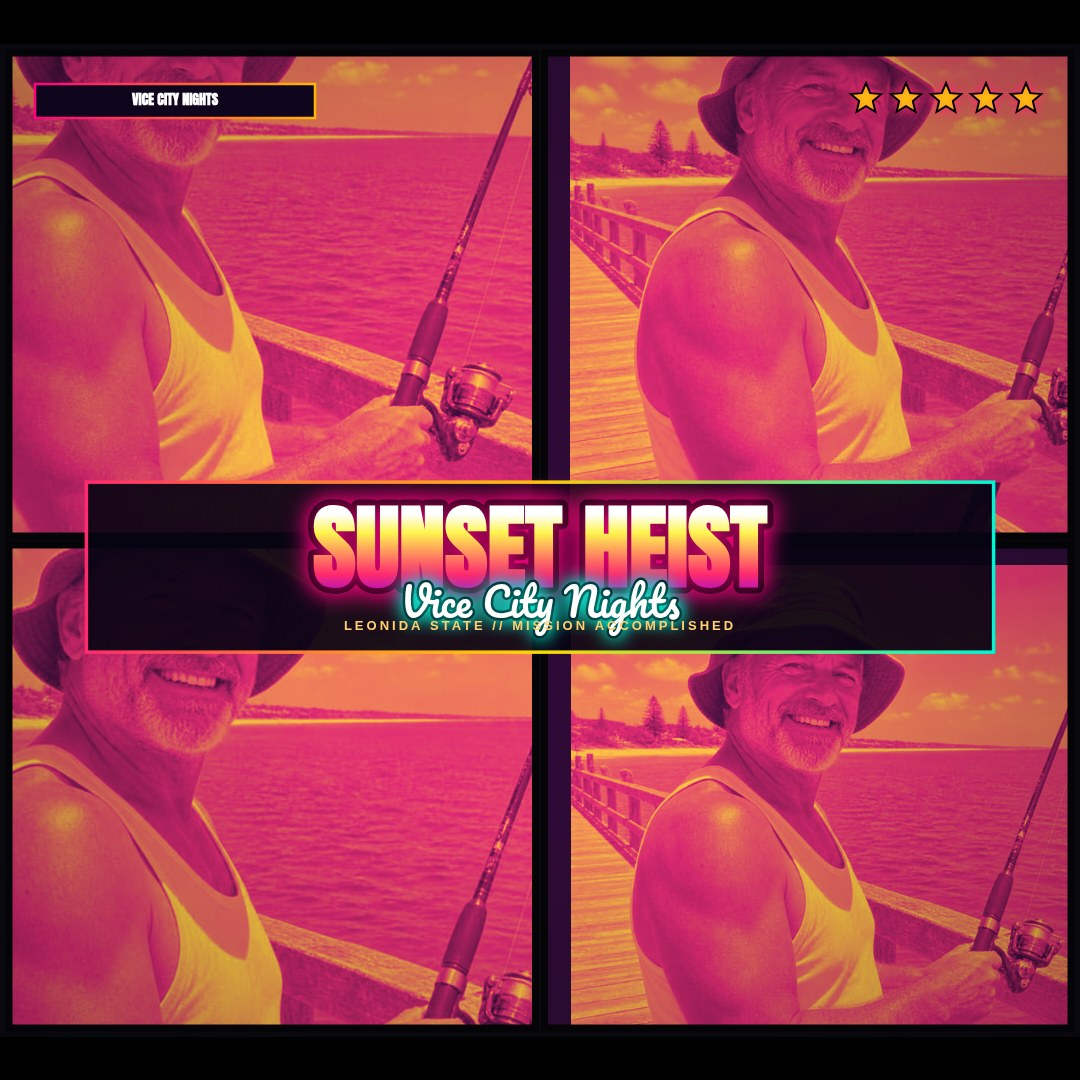
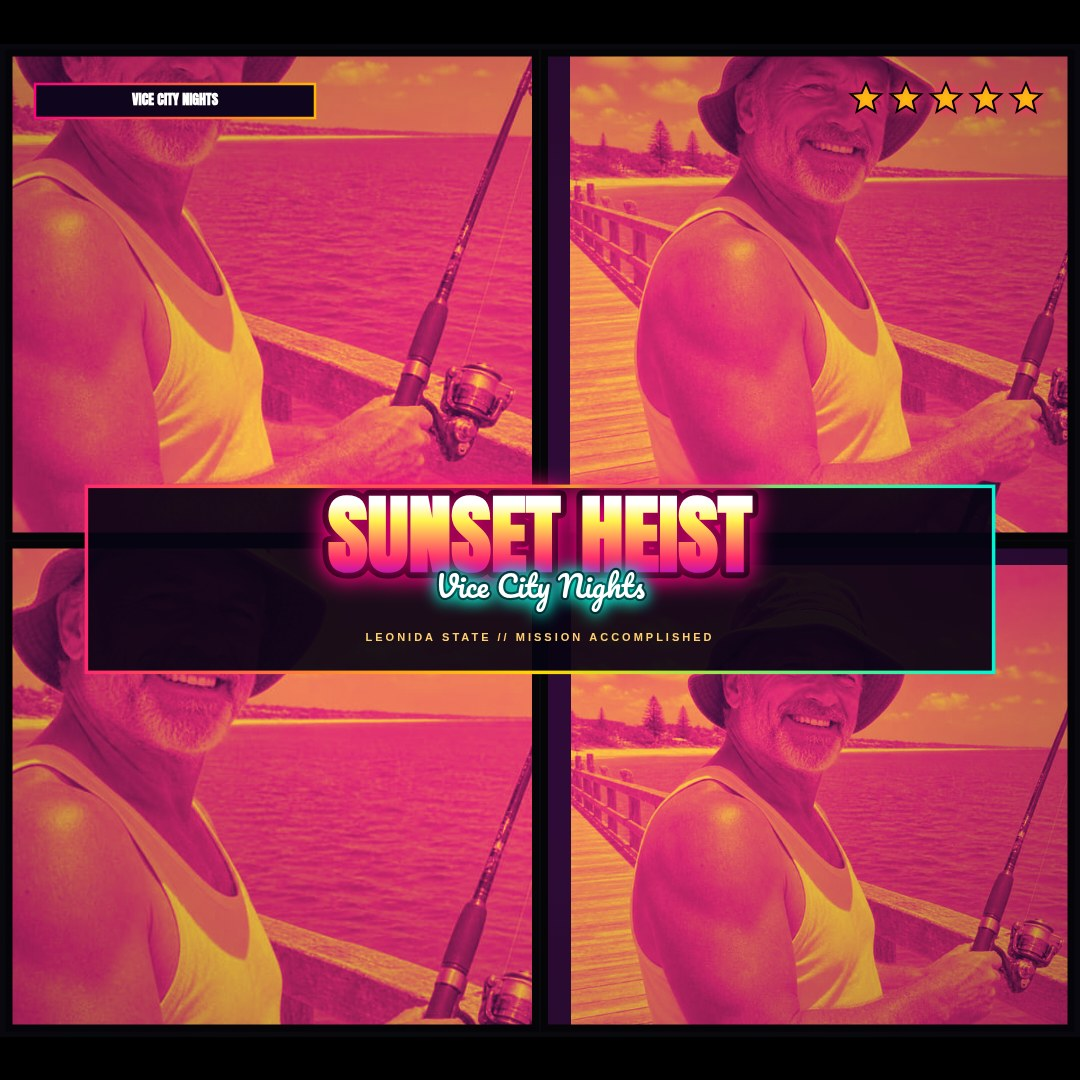
Fix reward badge link, title-block overlap, and full-bleed framing

Changed region(s): [[0.0611, 0.4278, 0.9167, 0.6417]]

diff --git a/app/src/renderer.js b/app/src/renderer.js
@@ -121,6 +121,8 @@ export function renderCover(canvas, state) {
           if (idx === 0) def = { panX: 0, panY: 90, zoom: 1.25 };
           else if (idx === 1) def = { panX: 0, panY: 0, zoom: 1.15 };
           else def = { panX: 0, panY: -90, zoom: 1.25 };
+        } else if (state.layout === 'full_bleed') {
+          def = { panX: 0, panY: 140, zoom: 1.0 };
         }
 
         const userOffset = state.panelOffsets && state.panelOffsets[p.id];
@@ -306,19 +308,19 @@ export function renderCover(canvas, state) {
   ctx.textAlign = titleBox.anchor || 'center';
 
   // Compute title font size
-  let titleFontSize = Math.round(92 * scale);
+  let titleFontSize = Math.round(86 * scale);
   if (state.layout === 'nine_panel') {
-    titleFontSize = Math.round(54 * scale);
+    titleFontSize = Math.round(52 * scale);
   } else if (state.layout === 'story_strip') {
-    titleFontSize = Math.round(76 * scale);
+    titleFontSize = Math.round(74 * scale);
   }
 
   // Background banner backing for readability if in grid layouts
   if (state.layout === 'four_panel' || state.layout === 'story_strip' || state.layout === 'hero_three') {
     const bannerW = state.layout === 'hero_three' ? W * 0.92 : W * 0.84;
-    const bannerH = 170 * scale;
+    const bannerH = 186 * scale;
     const bannerX = (W - bannerW) / 2;
-    const bannerY = titleBox.y - bannerH * 0.46;
+    const bannerY = titleBox.y - 74 * scale;
 
     ctx.fillStyle = 'rgba(8, 4, 18, 0.92)';
     ctx.fillRect(bannerX, bannerY, bannerW, bannerH);
@@ -344,6 +346,8 @@ export function renderCover(canvas, state) {
   ctx.font = `900 ${titleFontSize}px Anton, sans-serif`;
   ctx.textBaseline = 'middle';
 
+  const titleY = state.layout === 'nine_panel' ? titleBox.y - 6 * scale : titleBox.y - 14 * scale;
+
   // Multi-pass neon glow
   ctx.shadowColor = '#ff007f';
   ctx.shadowBlur = 24 * scale;
@@ -354,29 +358,29 @@ export function renderCover(canvas, state) {
   ctx.strokeStyle = '#05020a';
   ctx.lineWidth = Math.max(6, 12 * scale);
   ctx.lineJoin = 'round';
-  ctx.strokeText(titleText, titleBox.x, titleBox.y);
+  ctx.strokeText(titleText, titleBox.x, titleY);
 
   // Sunset gradient fill
-  const titleGrad = ctx.createLinearGradient(0, titleBox.y - titleFontSize / 2, 0, titleBox.y + titleFontSize / 2);
+  const titleGrad = ctx.createLinearGradient(0, titleY - titleFontSize / 2, 0, titleY + titleFontSize / 2);
   titleGrad.addColorStop(0, '#ffffff');
   titleGrad.addColorStop(0.2, '#fff44f'); // Golden yellow
   titleGrad.addColorStop(0.65, '#ff2a6d'); // Neon magenta
   titleGrad.addColorStop(1, '#7a00ff'); // Deep electric purple
   ctx.fillStyle = titleGrad;
-  ctx.fillText(titleText, titleBox.x, titleBox.y);
+  ctx.fillText(titleText, titleBox.x, titleY);
 
   // Subtitle: Pacifico cursive neon script angled across or underneath
   if (subText) {
-    const subFontSize = Math.round(titleFontSize * 0.44);
+    const subFontSize = Math.round(titleFontSize * 0.35);
     ctx.font = `400 ${subFontSize}px Pacifico, cursive`;
 
-    const subY = titleBox.y + titleFontSize * 0.52;
+    const subY = state.layout === 'nine_panel' ? titleBox.y + 20 * scale : titleBox.y + 30 * scale;
     const subX = titleBox.x;
 
     // Outer neon glow pass
     ctx.shadowColor = '#00f5d4'; // Electric neon cyan
-    ctx.shadowBlur = 18 * scale;
-    ctx.lineWidth = Math.max(3, 5 * scale);
+    ctx.shadowBlur = 16 * scale;
+    ctx.lineWidth = Math.max(3, 4.5 * scale);
     ctx.strokeStyle = '#020d1a';
     ctx.strokeText(subText, subX, subY);
 
@@ -387,14 +391,12 @@ export function renderCover(canvas, state) {
 
   // Sub-tagline
   if (tagText && state.layout !== 'nine_panel') {
-    const tagFontSize = Math.round(13 * scale);
+    const tagFontSize = Math.round(11 * scale);
     ctx.font = `700 ${tagFontSize}px sans-serif`;
     ctx.shadowColor = 'transparent';
     ctx.fillStyle = '#ffcf70';
     ctx.letterSpacing = `${3 * scale}px`;
-    const tagY = state.layout === 'four_panel' || state.layout === 'story_strip'
-      ? titleBox.y + titleFontSize * 0.72
-      : titleBox.y + titleFontSize * 0.92;
+    const tagY = titleBox.y + 78 * scale;
     ctx.fillText(tagText.toUpperCase(), titleBox.x, tagY);
   }
 

diff --git a/app/src/layouts.js b/app/src/layouts.js
@@ -83,7 +83,7 @@ export function computeLayout(layoutId, width, height) {
         ],
         titleBox: {
           x: width / 2,
-          y: height * 0.84,
+          y: height * 0.82,
           anchor: 'center',
           hasCenterBadge: false,
         },

diff --git a/README.md b/README.md
@@ -2,7 +2,7 @@
 
 [![make.fun · gta6-cover-art-01](https://make.fun/badge/gta6-cover-art-01.svg)](https://make.fun/bounty/gta6-cover-art-01?utm_source=github&utm_medium=readme&utm_campaign=gta6-cover-art-01)
 [![rank](https://make.fun/badge/gta6-cover-art-01/honru09/gta6-cover-art/rank.svg)](https://make.fun/bounty/gta6-cover-art-01/leaderboard?utm_source=github&utm_medium=readme&utm_campaign=gta6-cover-art-01)
-[![reward](https://make.fun/badge/gta6-cover-art-01/honru09/gta6-cover-art/reward.svg)](https://make.fun/bounty/gta6-cover-art-01/leaderboard?utm_source=github&utm_medium=readme&utm_campaign=gta6-cover-art-01)
+[![reward](https://make.fun/badge/gta6-cover-art-01/honru09/gta6-cover-art/reward.svg)](https://make.fun/bounty/gta6-cover-art-01?utm_source=github&utm_medium=readme&utm_campaign=gta6-cover-art-01)
 
 Neon Coast Cover Studio is an offline browser web app that turns local photos and custom captions into GTA 6-style multi-panel cover art posters. It features 6 dynamic multi-panel layouts, 5 cinematic color grades (including sunset gradient-maps and neon night duotones), star heat meters, badge ribbons, and one-click export for square (1080×1080), story (1080×1350), and landscape (1920×1080) PNGs. Entered in make.fun's 'Make GTA 6 Cover Art' bounty — $250 in USDC in prizes, paid only to winners.
 
